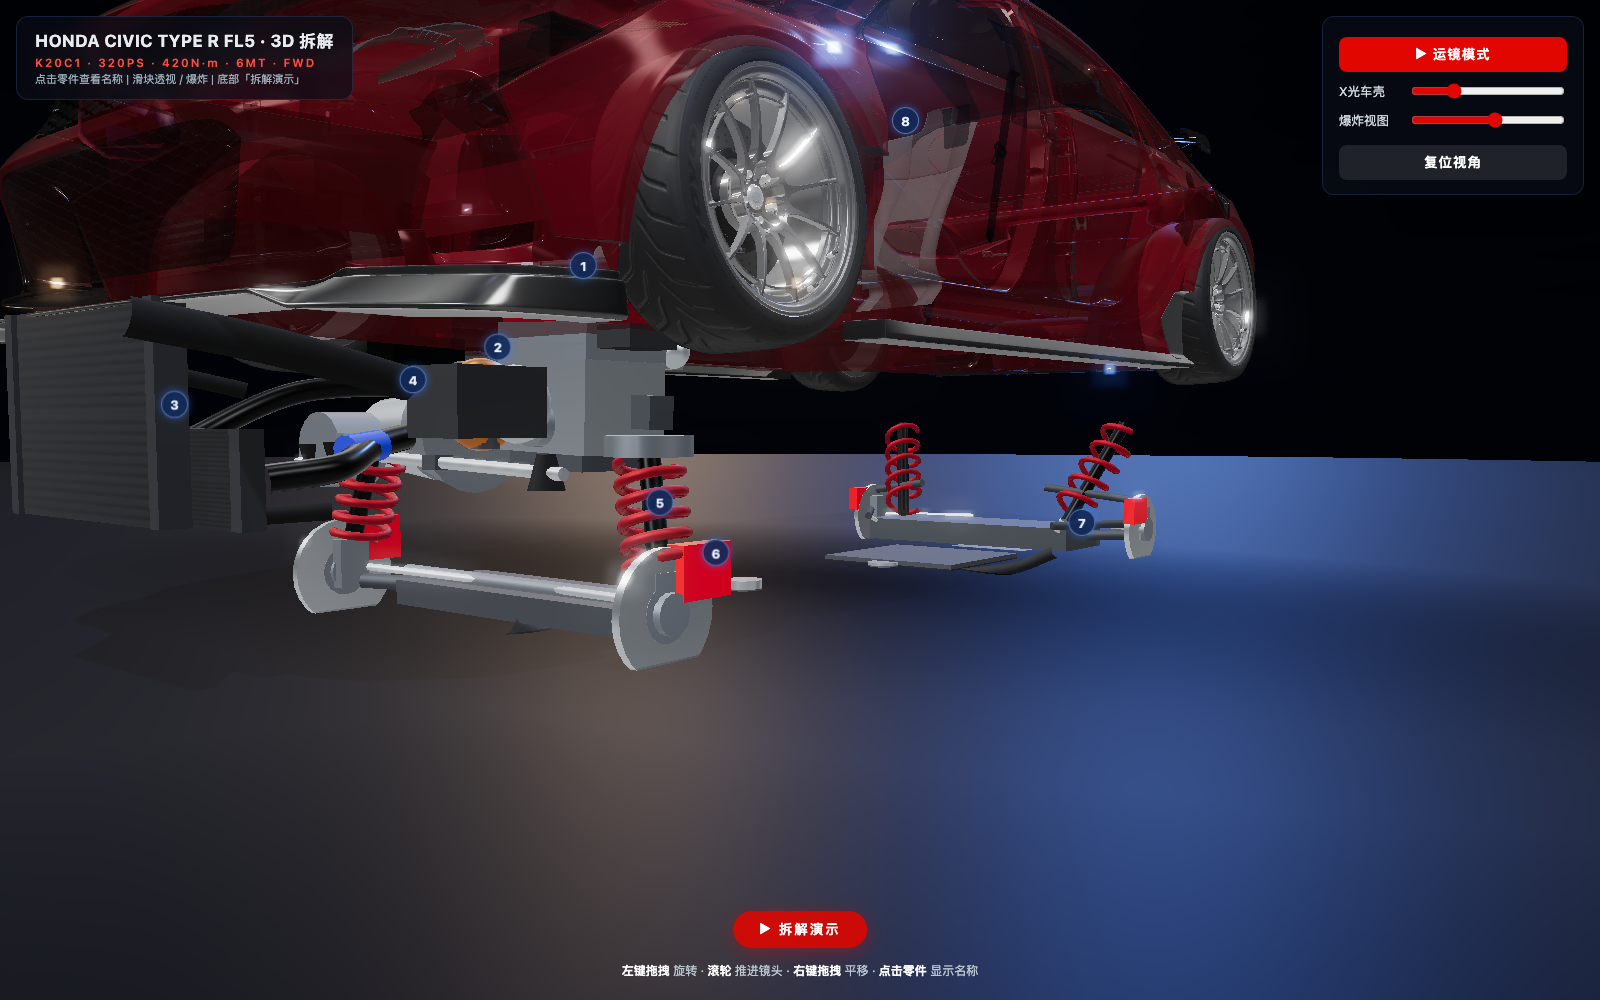
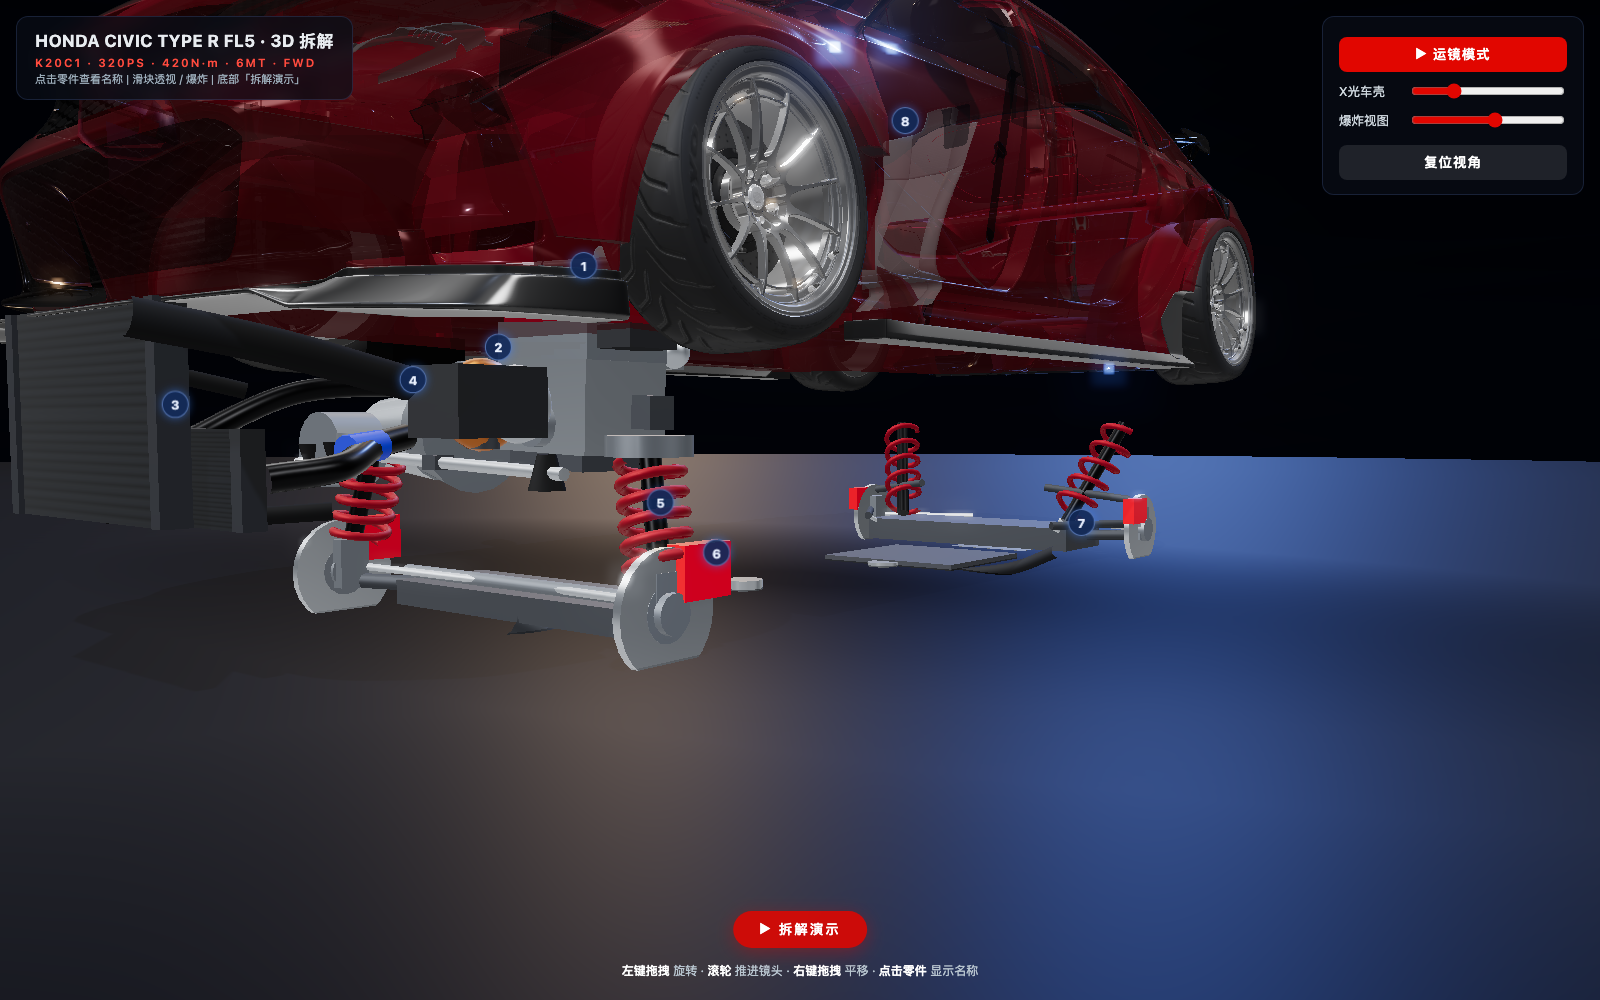
gloss re-tune on real mesh: bloom .26/.22/.93, static envMapIntensity caps on GLB paint(.42)/shell(.55)/glass(.32+roughness), red saturation up (r-g 59) with zero blowout on roof/hood — release shots refreshed (v25)

diff --git a/app.js b/app.js
@@ -40,7 +40,7 @@ function main() {
   const camera = new THREE.PerspectiveCamera(45, window.innerWidth / window.innerHeight, 0.05, 100);
   const composer = new EffectComposer(renderer);
   composer.addPass(new RenderPass(scene, camera));
-  const bloom = new UnrealBloomPass(new THREE.Vector2(window.innerWidth * 0.5, window.innerHeight * 0.5), 0.38, 0.3, 0.9);
+  const bloom = new UnrealBloomPass(new THREE.Vector2(window.innerWidth * 0.5, window.innerHeight * 0.5), 0.26, 0.22, 0.93);
   composer.addPass(bloom);
   composer.addPass(new OutputPass());
   camera.position.set(4.7, 2.85, 5.55);
@@ -1179,12 +1179,19 @@ function main() {
         if (m.map) m.map.anisotropy = 4;
         const nm = (m.name || '') + ' ';
         if (/interior|seatbelt|window/i.test(nm)) {
+          if (!m.userData.env0) { m.userData.env0 = m.envMapIntensity !== undefined ? m.envMapIntensity : 1; }
+          m.envMapIntensity = Math.min(m.userData.env0, 0.32);
+          if (m.roughness !== undefined) m.roughness = Math.max(m.roughness, 0.32);
           m.transparent = true;
           if (!GLB_FADE_MATS.includes(m)) GLB_FADE_MATS.push(m);
         } else if (shellKeys.test(nm)) {
+          if (!m.userData.env0) { m.userData.env0 = m.envMapIntensity !== undefined ? m.envMapIntensity : 1; }
           if (/(Paint_Material|Coloured_Material|Base_Material)$/i.test(m.name.trim())) {
             m.color.set(0xc22730);
+            m.envMapIntensity = Math.min(m.userData.env0, 0.42);
             tinted++;
+          } else {
+            m.envMapIntensity = Math.min(m.userData.env0, 0.55);
           }
           m.transparent = true;
           if (!GLB_SHELL_MATS.includes(m)) GLB_SHELL_MATS.push(m);

diff --git a/index.html b/index.html
@@ -126,6 +126,6 @@
     </div>
   </div>
 </div>
-<script type="module" src="app.js?v=24"></script>
+<script type="module" src="app.js?v=25"></script>
 </body>
 </html>
